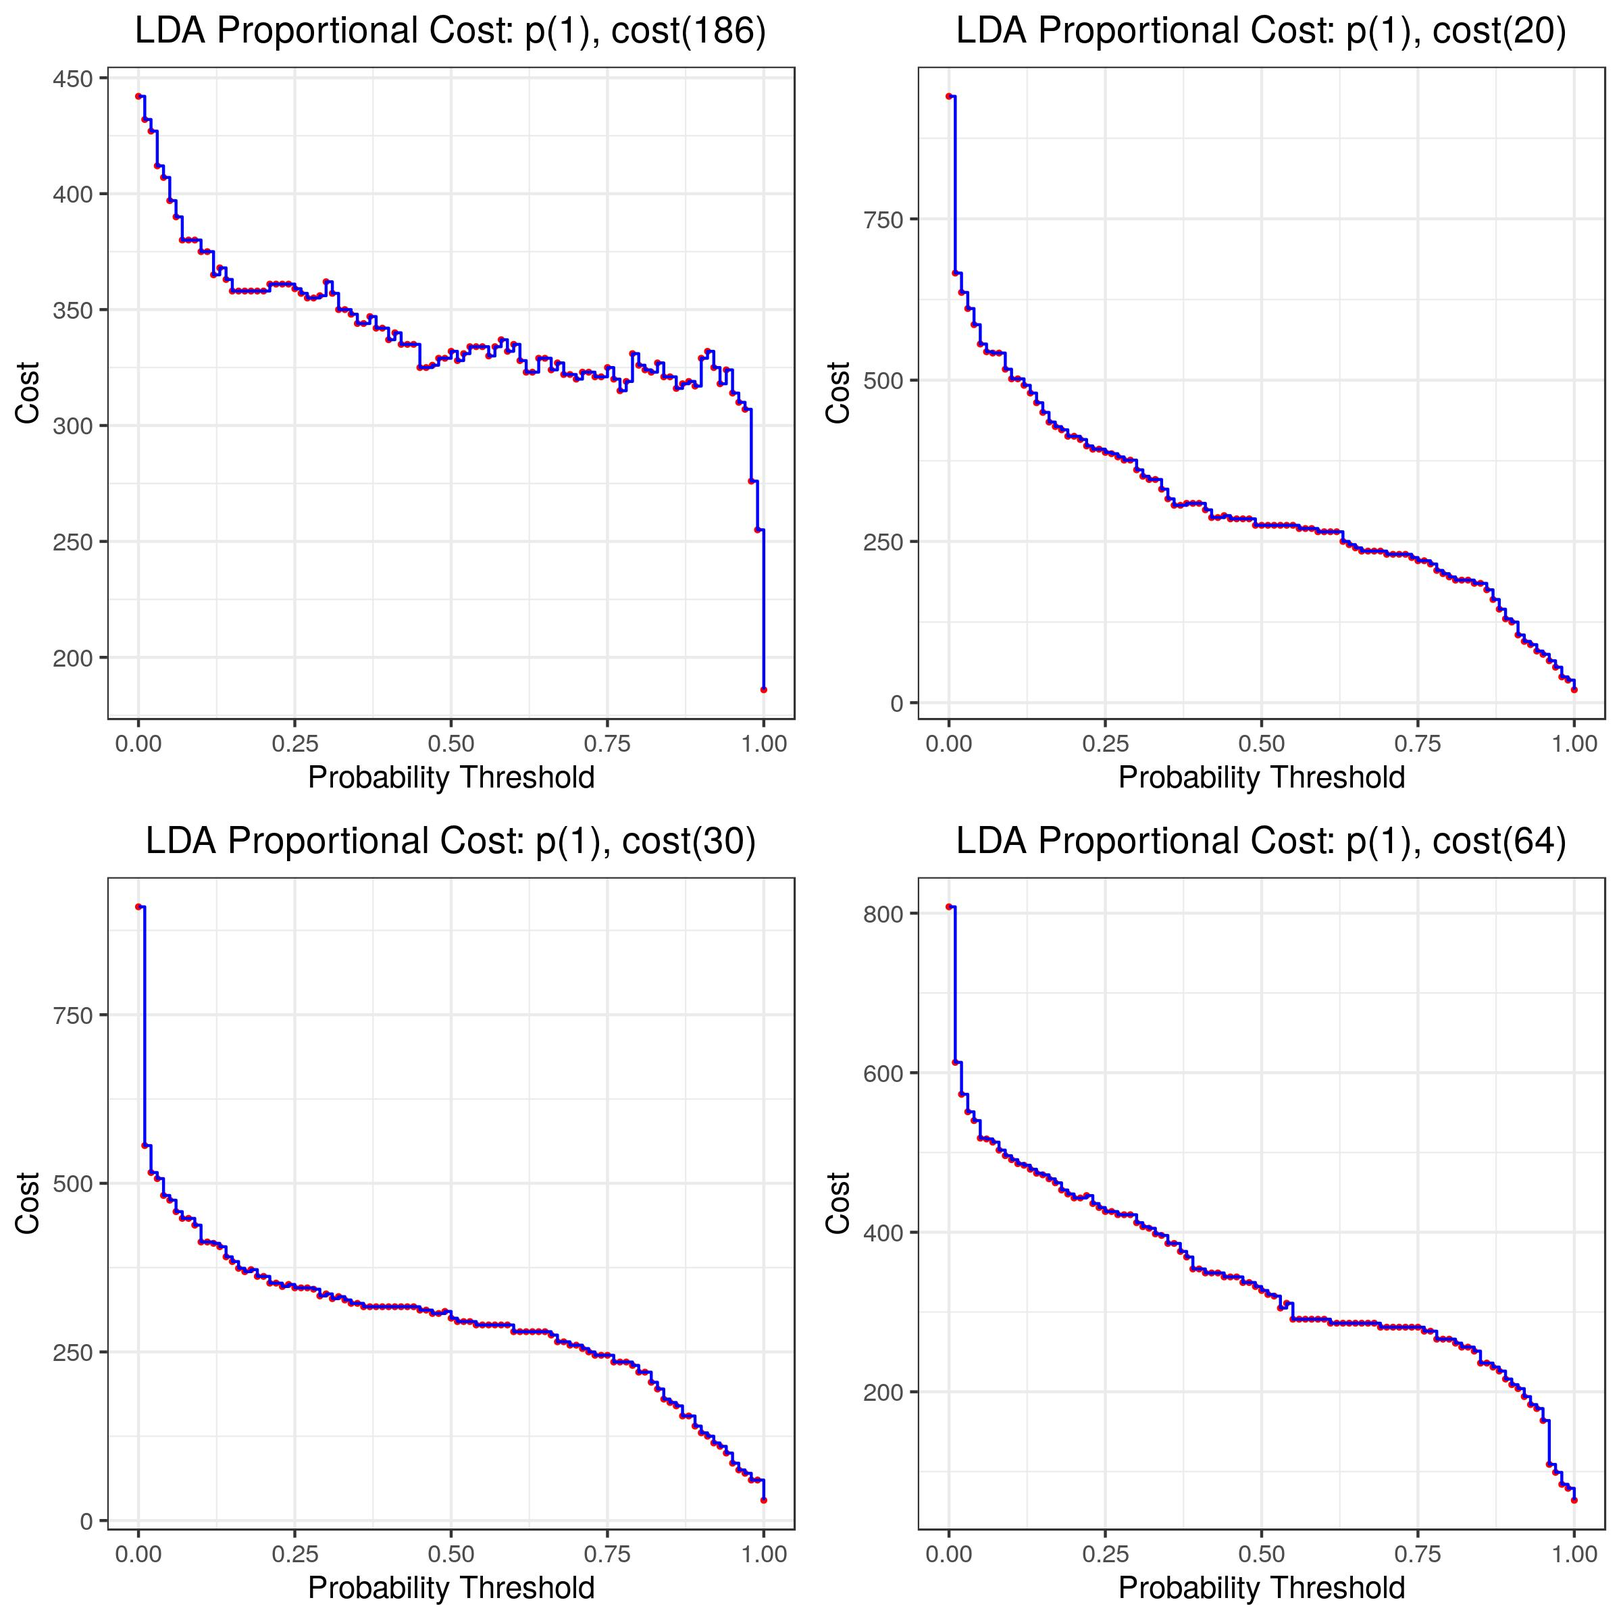
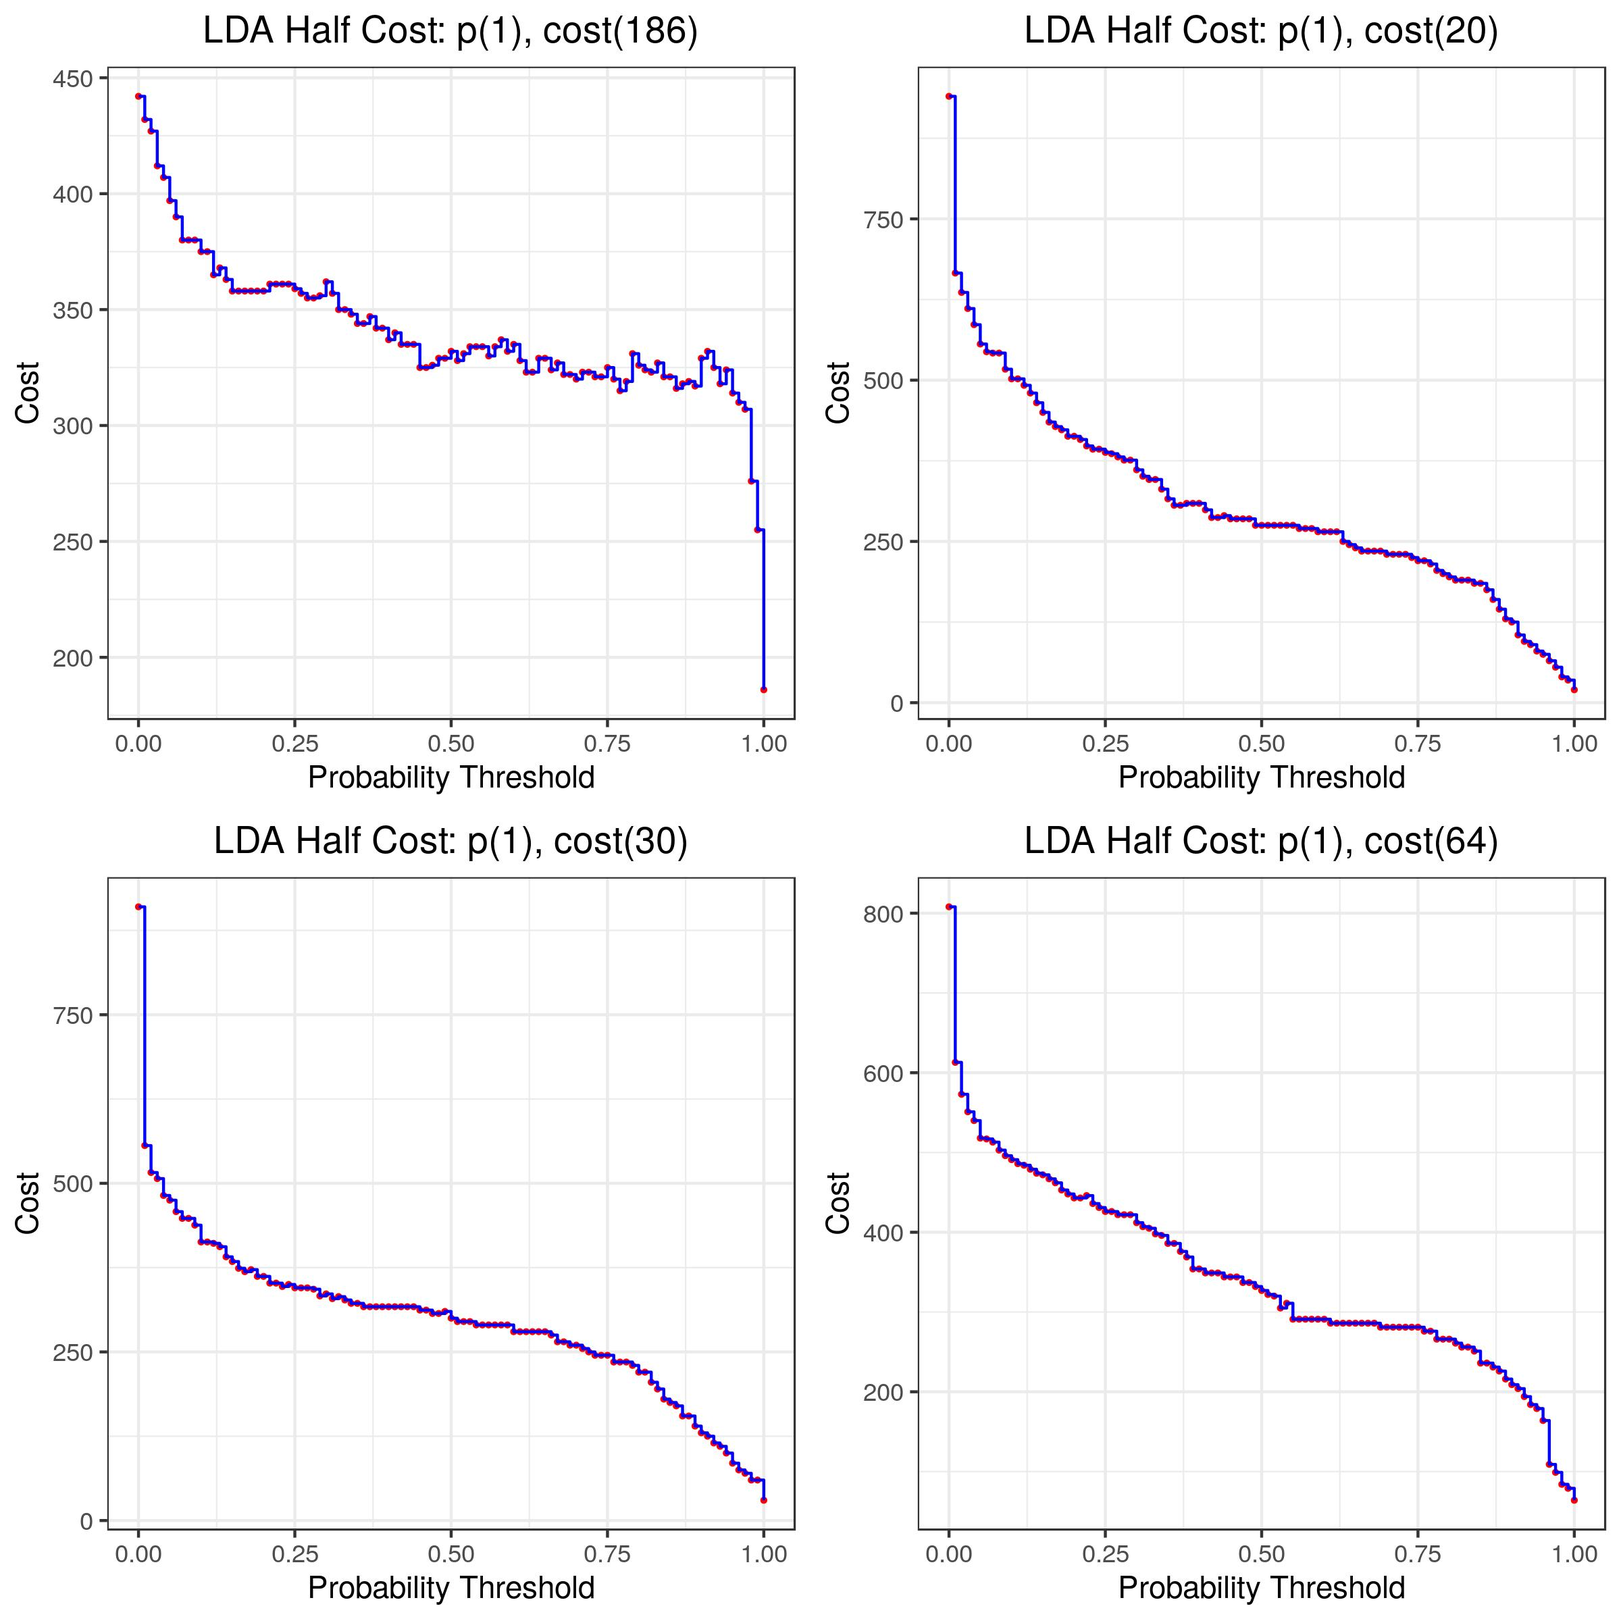
Updating ML Methods

diff --git a/src/nevilleq/dna_sample_predictive_modeling/newprod_ml_unsupervised.md b/src/nevilleq/dna_sample_predictive_modeling/newprod_ml_unsupervised.md
@@ -6,33 +6,24 @@ DSPG Business Innovation Team
 2. Unsupervised Methods (Bag of Words)
 --------------------------------------
 
-``` r
-#Store desired filepath
-file.path <- "./data/working/DNA_Aggregated/Machine_learning_sample/NPS_sample_data/"
+Here, we utilize the same document term matrix generation procedure, test/train split, and samples of varying proportions of DNA labeled new product or service codes (50%, 20%, 10%, Proportional ~ 7%) to build and analyze unsupervised methods for clustering the data. Unlike the previous supervised models, all of these methods can be exploratory, with two also providing predictive algorithms for a defined outcome. Recalling from the previous document, the methods we are going to investigate take the form:
 
-#Test train sample
-train.split <- 0.8
-N <- 1000
-set.seed(2019)
-train.samp <- sample(1:N, train.split * N, replace = FALSE)
+However, alternative *unsupervised* exploratory and predictive models can also be built without articles having a defined labeled outcome; exploiting the underlying structure of the article data (through distance, hierarchy, latent factors, etc.) to give further insight and provide potential predictive features/models to supplement the supervised models. We investigated the following *unsupervised* method(s):
 
-#Create tibble of each sample data identified by the variable 'sample', stored in the variable 'data'
-sample.df <- list.files(path = file.path) %>%
-  enframe() %>%
-  rename(file_path = value) %>%
-  filter(file_path %>% str_detect(".RDS")) %>%
-  mutate(
-    sample      = str_split_fixed(file_path, "_", 5)[ ,4],
-    file_path   = str_c(file.path, file_path),
-    data        = map(.x = file_path, ~read_rds(.x) %>% as_tibble()),
-    subject     = map(.x = data, ~.x %>% dplyr::select(subject_code_ns) %>% 
-                                  mutate(subject_code_ns = as.factor(subject_code_ns))),
-    data        = map2(.x = data, .y = subject, ~bind_cols(as_tibble(make_dtm(.x, 40)), .y) %>%
-                                                 dplyr::select(subject_code_ns, everything())),
-    train       = map(.x = data, ~.x[train.samp, ]),
-    test        = map(.x = data, ~.x[setdiff(1:N, train.samp), ])
-  )
-```
+-   Bag of Words:
+    Takes a clean corpus of words, document term matrix of frequency, and utilizes an unsupervised clustering algorithm to predict a binary classification of articles into two corresponding groups (New Product/Service vs. Not). Unsupervised clustering algorithms investigated include:
+
+-   K-means Clustering (*Predicted Classification*) An algorithm that iteratively calculates centroids and euclidean distance of the article data to those centroids, minimizing the centroid distance to points until convergence. This produces groupings of the data that do not rely on a specific outcome. As a predictive model, we build the clusters on the training set, then, we select whichever cluster has a higher percentage of the desired outcome as the "positive" outcome, calculate which cluster the new test data points fall into, and see how many "positive" outcomes in the testing set were actually grouped into the "positve" cluster.
+
+-   Hierarchical Clustering
+    Similar to decision trees, this algorithm considers a hierarchical structure to the data, splitting upon chosen measures of distance, and cutting the tree at the desired number of groups to produce the same clustering structure as above. Only used for exploratory analysis.
+
+-   Bayesian Clustering
+    Similar to the above algorithms, this method also utilizes measures of distance but calculates groupings using the MArkov Chain Monte Carlo method with a conditional prior probability driving the predicted posterior probability of a data point falling into that particular group for group classification. Can be much more useful than the above methods if given an informative (good) prior distribution for the probability of being in a particular group. Only used for exploratory analysis.
+
+-   Latent Dirichlet Allocation (*Predicted Probabilities*) Unlike the previous methods, this utilizes a latent variable clustering algorithm with a conditional expectation probability of being in a particular group. However, unlike the Bayesian method, this algorithm is done using an Expectation Maximization algorithm of the likelihood rather than an MCMC algorithm to describe the predicted probability of a data point falling into a particular latent cluster. Used often in topic modeling, which we are performing here, and has the highest likelihood of being effective given our data and end goal. As a predictive model, this is far more advantageous and flexible than K-means as it utilizes a stochastic chain procedure (uses the data to drive the algorithm) and provides *predicted probabilities* of being in a certain class, not just a classification.
+
+We will evaluate the first three distance-driven algorithms based on Within and Between Cluster Sum of Squares (measures of consistency and separation of a distance-clustering model), as well as accuracy where applicable. For the hierarchical models that cannot be used as predictive models, we fit the model to the entire data set and simply calculate how many "positive" articles actually ended up in the "positive" cluster, giving us a sense of whether or not the algorithm is specifically picking up the difference between "positive" articles or not (by seperation into clusters). Finally, for the Latent Dirichlet Allocation clustering method, we will analyze this method as both exploratory (like the hierarchical model analysis) and predictive (just like in the previous supervised methods section).
 
 ``` r
 #Write out json's for Neil 
@@ -48,6 +39,8 @@ sample.df <- sample.df %>%
 ```
 
 #### a. K-means
+
+Below, we analyze the predictive capabality of the *k*-means algorithm through consistency (within sum of squares), separation (between sum of squares), and predictive accuracy (proportion of correct predictions).
 
 ``` r
 kmeans.df <- sample.df %>%
@@ -136,6 +129,8 @@ tibble(
 The kmeans models do not appear to be seperating particularly well, and are performing poorly. Compared to the most uninformative model, using the estimated proportion to sample from a bernoulli *N* `TRUE`/`FALSE` with porbability of drawing a true being the estimated proportion of `TRUE` in the training set, on the test set. Our kmeans models are only performing marginally better than the uninformative model; which actually appears to be good when the proportions are small because the models just predict all `FALSE`, which ends up being mostly correct (but it is an entirely inflexible model to variation in the the test data).
 
 #### b. Heirarchical
+
+As an exploratory method, we will fit 6 different hierarchical clustering models to the entire data, each utilizing one of the following metrics to calculate distance: average, complete, single, McQuitty, median, or centroid. Further analysis consisted of comparing cluster consistency (within sum of squares) and overall ability to separate into "positive" and "negative" new product/services clusters ("accuracy" - number of "positive" articles in the "positive" cluster).
 
 ``` r
 #Store method vector
@@ -256,9 +251,11 @@ accuracy %>%
 
 <img src="newprod_ml_unsupervised_files/figure-markdown_github/heirarchical-2.png" width="90%" />
 
-Same problem as Kmeans.
+Similarly to *k*-means above, this method is performing quite horribly at both creating consistent clusters (high within sum of squares) or seperating clearly into new product/service "positive" vs. "negative" clusters. Put simply, it is doing only marginally better than flipping a coin, using the empirical "positive" proportion as a model, or simply grouping every observation into the "negative" cluster (high "accuracy" when proportion of "positives" is small).
 
-#### c. Bayesian
+#### c. Bayesian Hierarchical
+
+In similar fashion to the algorithm directly above, we will repeat a mirrored separability analysis; although given the poor performance above it would be unlikely for this method to perform much better. It is a similar hierarchical method with addition of a Bayesian hyperparameter describing the underlying probability of being in one group vs. another. In a setting where hierarchical clustering was useful/separating well, this method ought to be an improvement on the former.
 
 ``` r
 #Store method vector
@@ -302,7 +299,11 @@ bclust.df %>%
   scale_fill_viridis_d()
 ```
 
+In almost exactly the same fashion as the hierarchical clustering above, we see that this method does lead to a clear separation into "positive" vs. "negative" new product or service article clusters. Further, it actually appears to be performing worse than general hierarchical clustering, which is a bit counterintuitive. Perhaps further time exploring the tuning and fitting of these models is necessary to produce better clustering separation.
+
 #### d. Latent Dirichlet Allocation
+
+Recalling from the introduction the characteristics of Latent Dirichlet Allocation (LDA), this algorithm affords us the opportunity to both explore the data and be a 'true' predictive model. Unlike *k*-means, which is a quasi-predictive model, LDA outputs a predicted probability that each observation falls into one of *k* categories. In our case, *k* = 2 and we obtain predicted probabilities that an article falls into one of the two latent variable clusters. For exploration, we fit the model to the entire data and then compute the separation or "accuracy" between articles "positive" or "negative" for new products or services. With respect to prediction, we fit the model to the training set, assign which ever latent cluster has the highest percentage of new product/service articles as the "positive" cluster, and predict on the test set to obtain predicted probabilities of an article falling into the "positive" cluster. These predicted probabilites can then be used to classify the articles and obtain ROC, AUC, and cost metrics for analysis.
 
 ##### i. Exploration
 
@@ -349,11 +350,13 @@ lda.df %>%
 | ten    |  0.5840000|
 | twenty |  0.4664665|
 
+Here, we see that the separation (through "accuracy" on the whole data) is not particularly high for this method. However, we are not seeing the same trend where the algorithm is basically putting everything into one bucket, and in essence predicting that everything will be "negative" at lower proportions of true "positive" values in each DNA article data sample. This is actually a potential positive, because as we extend these methods to articles labeled for innovation (not by DNA), a method such as this may actually be useful.
+
 ##### ii. Prediction
 
-Alternate method to assess the LDA topic modeling as a predictive model.
+Alternative methodology to assess the LDA topic modeling as a predictive model. Recall that identical analyses to the previous supervised methods will be applied here.
 
-Need to restructure data to have comaptible data structures for the LDA prediction.
+To utilize this method, we must employ different `r` packages to restructure data to have comaptible structures for the LDA prediction from the `textmineR` package vs. `tidytext` and `tm` above.
 
 ``` r
 #Store desired filepath
@@ -392,7 +395,7 @@ sample.df <- list.files(path = file.path) %>%
   )
 ```
 
-Here we employ the method, using a gibbs sampler with fixed iteration and burn in period to estimate that latent probabilities of a given document falling into a particular class. The longer the iteration period (and proportionally the burn in period), you are more likely to get optimal classification probabilities and prediction power.
+Here we employ the method, using a gibbs sampler with fixed iteration and burn in period to estimate that latent probabilities of a given document falling into a particular class. The longer the iteration period (and proportionally the burn in period), the more likely one is to obtain optimal classification probabilities and prediction power.
 
 ``` r
 #Iteration and burnin for gibbs sampler
@@ -447,10 +450,10 @@ plots <- lda.df %>%
     lda_probs = map2(.x = lda_probs, .y = cluster, ~.x[, .y]),
     sample    = sample %>% as.factor() %>% fct_relevel("prop", "ten", "twenty", "half"),
     roc       = map2(.x = test_ns, .y = lda_probs, ~roc.log(.x, .y)),
-    roc_gg    = map2(.x = roc, .y  = c("Proportional", "Ten", "Twenty", "Half"), 
+    roc_gg    = map2(.x = roc, .y  = c("Half", "Proportional", "Ten", "Twenty"), 
                   ~plot.roc(.x, sprintf("LDA %s | AUC: %s", .y, auc(.x) %>% round(4)*100))),
     cost      = map2(.x = test_ns, .y = lda_probs, ~cost.df(.x, .y)),
-    cost_gg   = map(.x = cost, .y = c("Proportional", "Ten", "Twenty", "Half"), 
+    cost_gg   = map(.x = cost, .y = c("Half", "Proportional", "Ten", "Twenty"), 
                   ~plot.cost(.x, paste("LDA", .y)))
   )
 
@@ -482,3 +485,9 @@ lda.cost
 ```
 
 <img src="newprod_ml_unsupervised_files/figure-markdown_github/unnamed-chunk-6-2.png" width="90%" />
+
+Here we observed some very interesting and unique behavior for LDA models by varying sample, with ROC curves below 0.5 for a probability threshold less than 0.5, and above for thresholds greater than 0.5. This implies that the accuracy measure above is not necessarilly reflective of the predictive capabiltiy of the model, given that a sufficiently high threshold is chosen for "positive" classification. Further, we see that this method, by sample, reaches an optimally minimized cost at a threshold of *p* = 1, meaning that every new observation is simply classified as false. That is a bit concerning, but the model still holds promise for alternative classification of innovation labeled articles vs. DNA labeling of new product/service.
+
+#### e. Conclusion
+
+Overall, none of these methods were convincing in their effectiveness, usefulness, or compability to aid in separating and classifying these DNA news articles into new product/service articles vs. not (according to DNA's own labeling system). However, that does not mean that the exercise has been useless. We have observed and recorded the temperment of each method given our specific data, seeing where each method is potentially strong or weak. Moving forward, we would recommend that for the innovation labeled articles, we investigate both *k*-means and LDA as predictive algorithms (Bag of Words). It is unclear whether hierarchical modeling is useful at all given these data, but those methods will likewise be investigated. Changing the outcome from new product/service to innovation may greatly change the results for both the supervised and unsupervised methodology.

diff --git a/src/nevilleq/dna_sample_predictive_modeling/newprod_ml_methods.md b/src/nevilleq/dna_sample_predictive_modeling/newprod_ml_methods.md
@@ -8,12 +8,6 @@ Introduction
 
 This paper outlines the building, testing, evaluation, and recommendation for building predictive models from a random sample of DNA (2015) articles. The outcome of interest concerns whether or not an article is labeled (by DNA's mixture of dictionary and machine learning) as pertaining to a New Product or Service, or not. In this context, we will consider the following *supervised* models:
 
--   Bag of Words:
-    Takes a clean corpus of words, document term matrix of frequency, and utilizes an unsupervised clustering algorithm to predict a binary classification of articles into two corresponding groups (New Product/Service vs. Not).
-
--   Support Vector Machines
-    Geometrically elegant classifier with generally high precision.
-
 -   Penalized Generalized Linear Model
     Logistic regression generating predicted probabilities for a binary classifier, parametric (Binomial Distribution), with penalization and shrinkage parameters to adjust for number of features (words in articles).
 
@@ -23,10 +17,16 @@ This paper outlines the building, testing, evaluation, and recommendation for bu
 -   Gradiant Boosting Machine (Trees)
     Similar to random forest, however the bag of trees being built is not independent; rather each tree is built based on the performance of the previous one, allowing for a learning rate as the forest grows. Same outcome as random forest.
 
+-   Support Vector Machines
+    Geometrically elegant classifier with generally high precision, however it is computationally costly to tune and very dependent on tuning to be a good clasifier. If technical issues (convergence, tuning grid, etc.) can be ameliorated, should provide a robust binary text classifier.
+
 -   Neural Network
     Extremely flexible network of interconnected nodes, performing gradient descent linear models between nodes, to create probablistically likely paths through the network of features ultimately leading to a probability threshold for binary classification.
 
-The main feature of these methods is that require a labeled outcome to be built and optimized, with the result being a direct correspondence to a predicted probability of belonging to said label class (New Product or Service). However, alternative *unsupervised* exploratory and predictive models can also be built without articles having a defined labeled outcome; exploiting the underlying structure of the article data (through distance, hierarchy, latent factors, etc.) to give further insight and provide potential predictive features/models to supplement the supervised models. We investigated the following *unsupervised* methods:
+The main feature of these methods is that require a labeled outcome to be built and optimized, with the result being a direct correspondence to a predicted probability of belonging to said label class (New Product or Service). However, alternative *unsupervised* exploratory and predictive models can also be built without articles having a defined labeled outcome; exploiting the underlying structure of the article data (through distance, hierarchy, latent factors, etc.) to give further insight and provide potential predictive features/models to supplement the supervised models. We investigated the following *unsupervised* method(s):
+
+-   Bag of Words:
+    Takes a clean corpus of words, document term matrix of frequency, and utilizes an unsupervised clustering algorithm to predict a binary classification of articles into two corresponding groups (New Product/Service vs. Not). Unsupervised clustering algorithms investigated include:
 
 -   K-means Clustering
     An algorithm that iteratively calculates centroids and euclidean distance of the article data to those centroids, minimizing the centroid distance to points until convergence. This produces groupings of the data that do not rely on a specific outcome.
